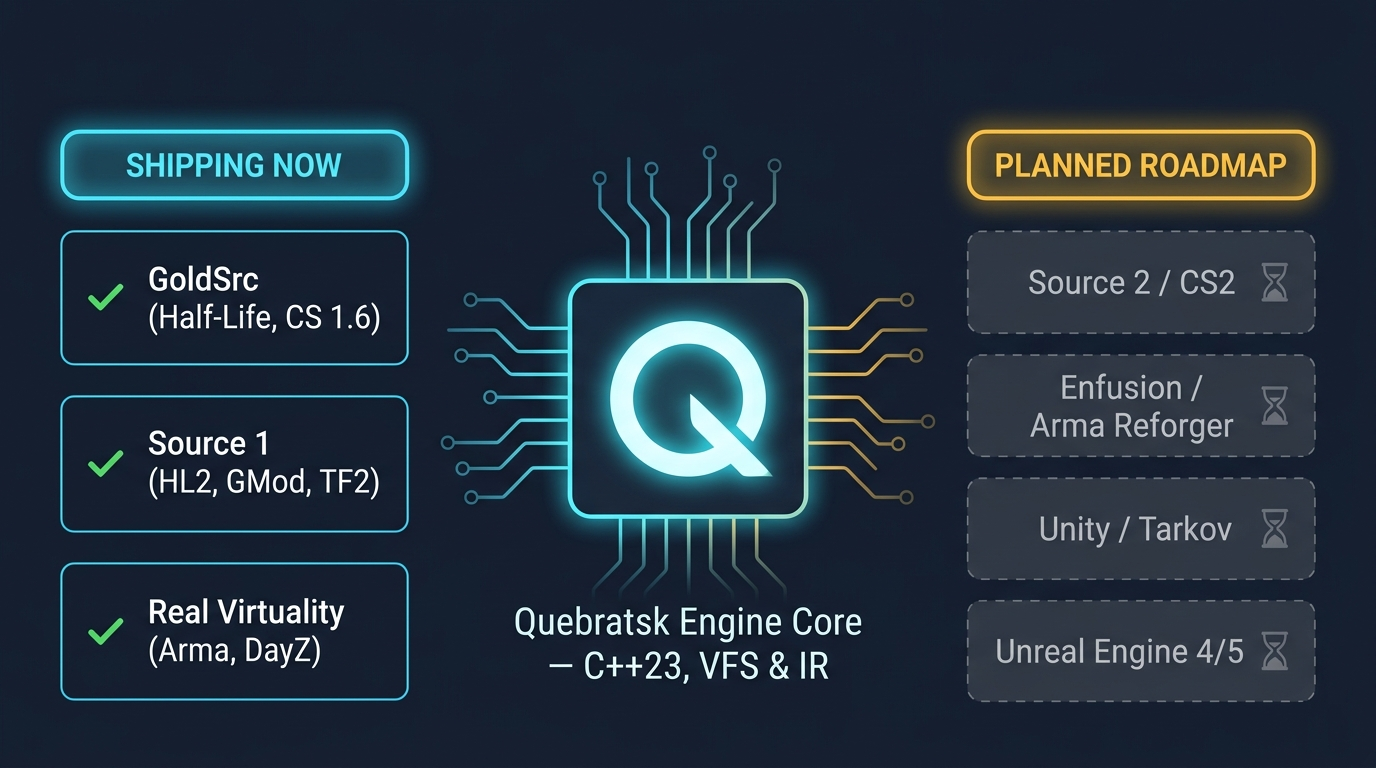
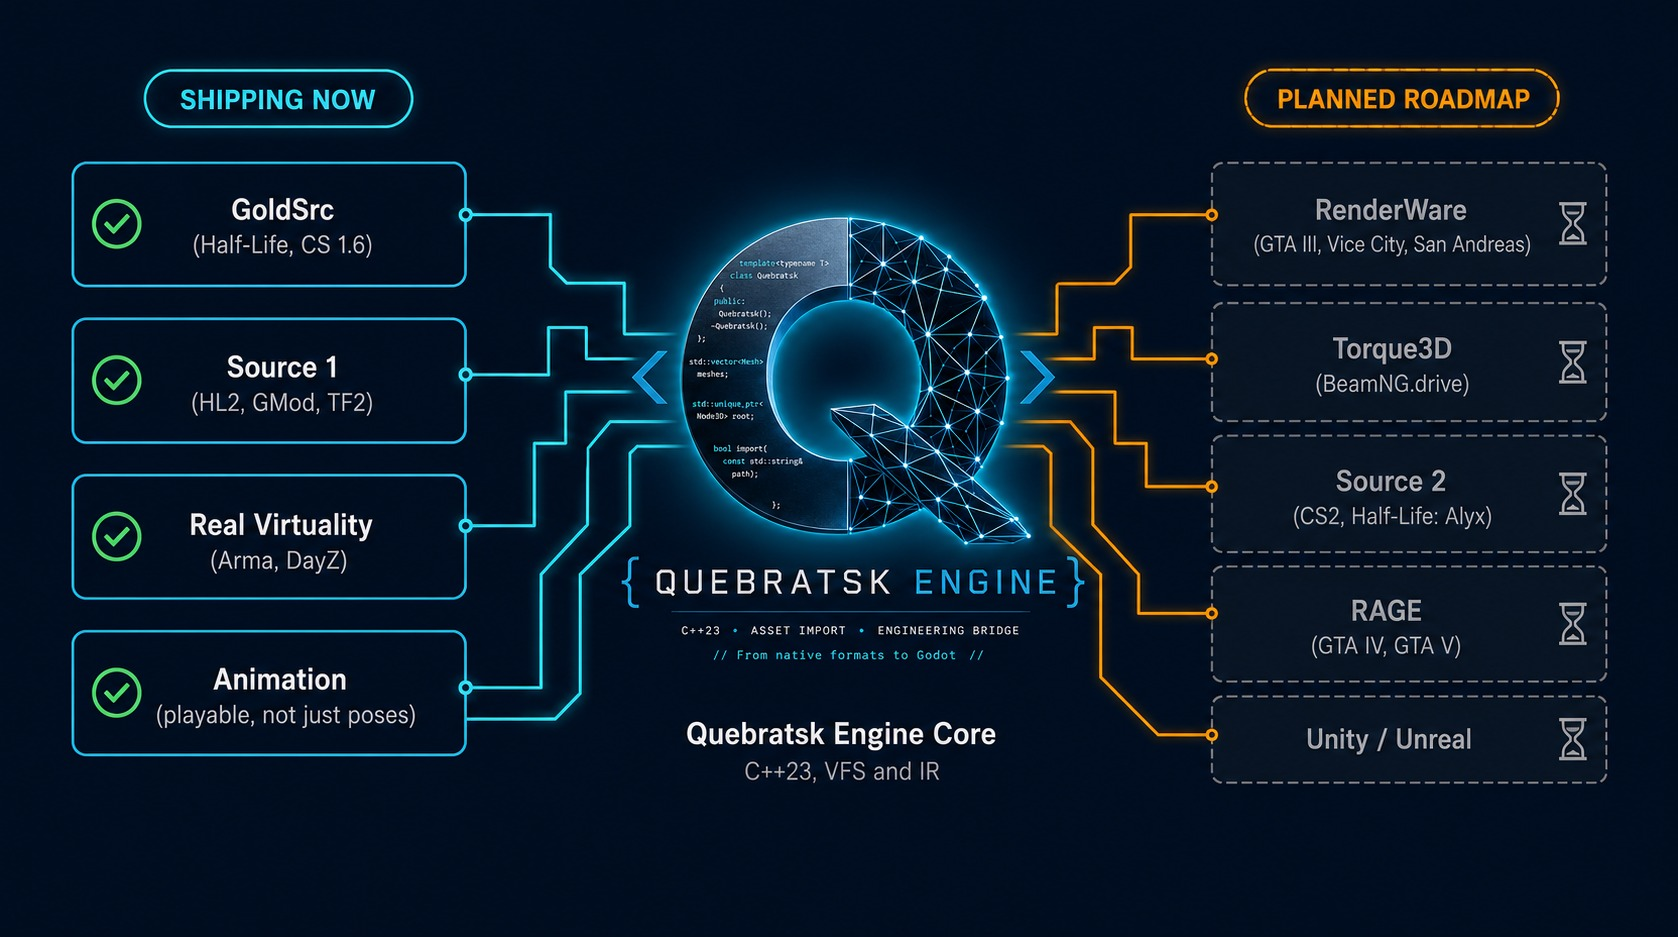
fix(addon): Save ignored the pose and the animation
Add to scene adopts the previewed node, so it arrives in the stance the
user chose. Save rebuilt the model from scratch with neither pose nor
animation, so the two buttons produced different models from the same
selection.

A batch keeps each model's own default: a sequence label picked against
one model rarely exists in another.

Also installs the new roadmap image, which now carries the engine logo
and the RenderWare and Torque3D targets.

diff --git a/CHANGELOG.md b/CHANGELOG.md
@@ -34,6 +34,12 @@ and this project adheres to [Semantic Versioning](https://semver.org/spec/v2.0.0
 
 ### Fixed
 
+- **Save ignored the pose you picked.** *Add to scene* adopts the previewed node, so it
+  arrives in the chosen stance, but *Save* rebuilt the model from scratch with no pose and
+  no animation. The two buttons produced different models from the same selection. Saving a
+  multi-selection still uses each model's own default, since a sequence label picked against
+  one model rarely exists in another.
+
 - **85 animation sequences were missing from every Garry's Mod player model.** A section
   whose data begins at the first byte of its animation block records an offset of zero, and
   the resolver rejected zero everywhere as invalid. It is only invalid for data stored
